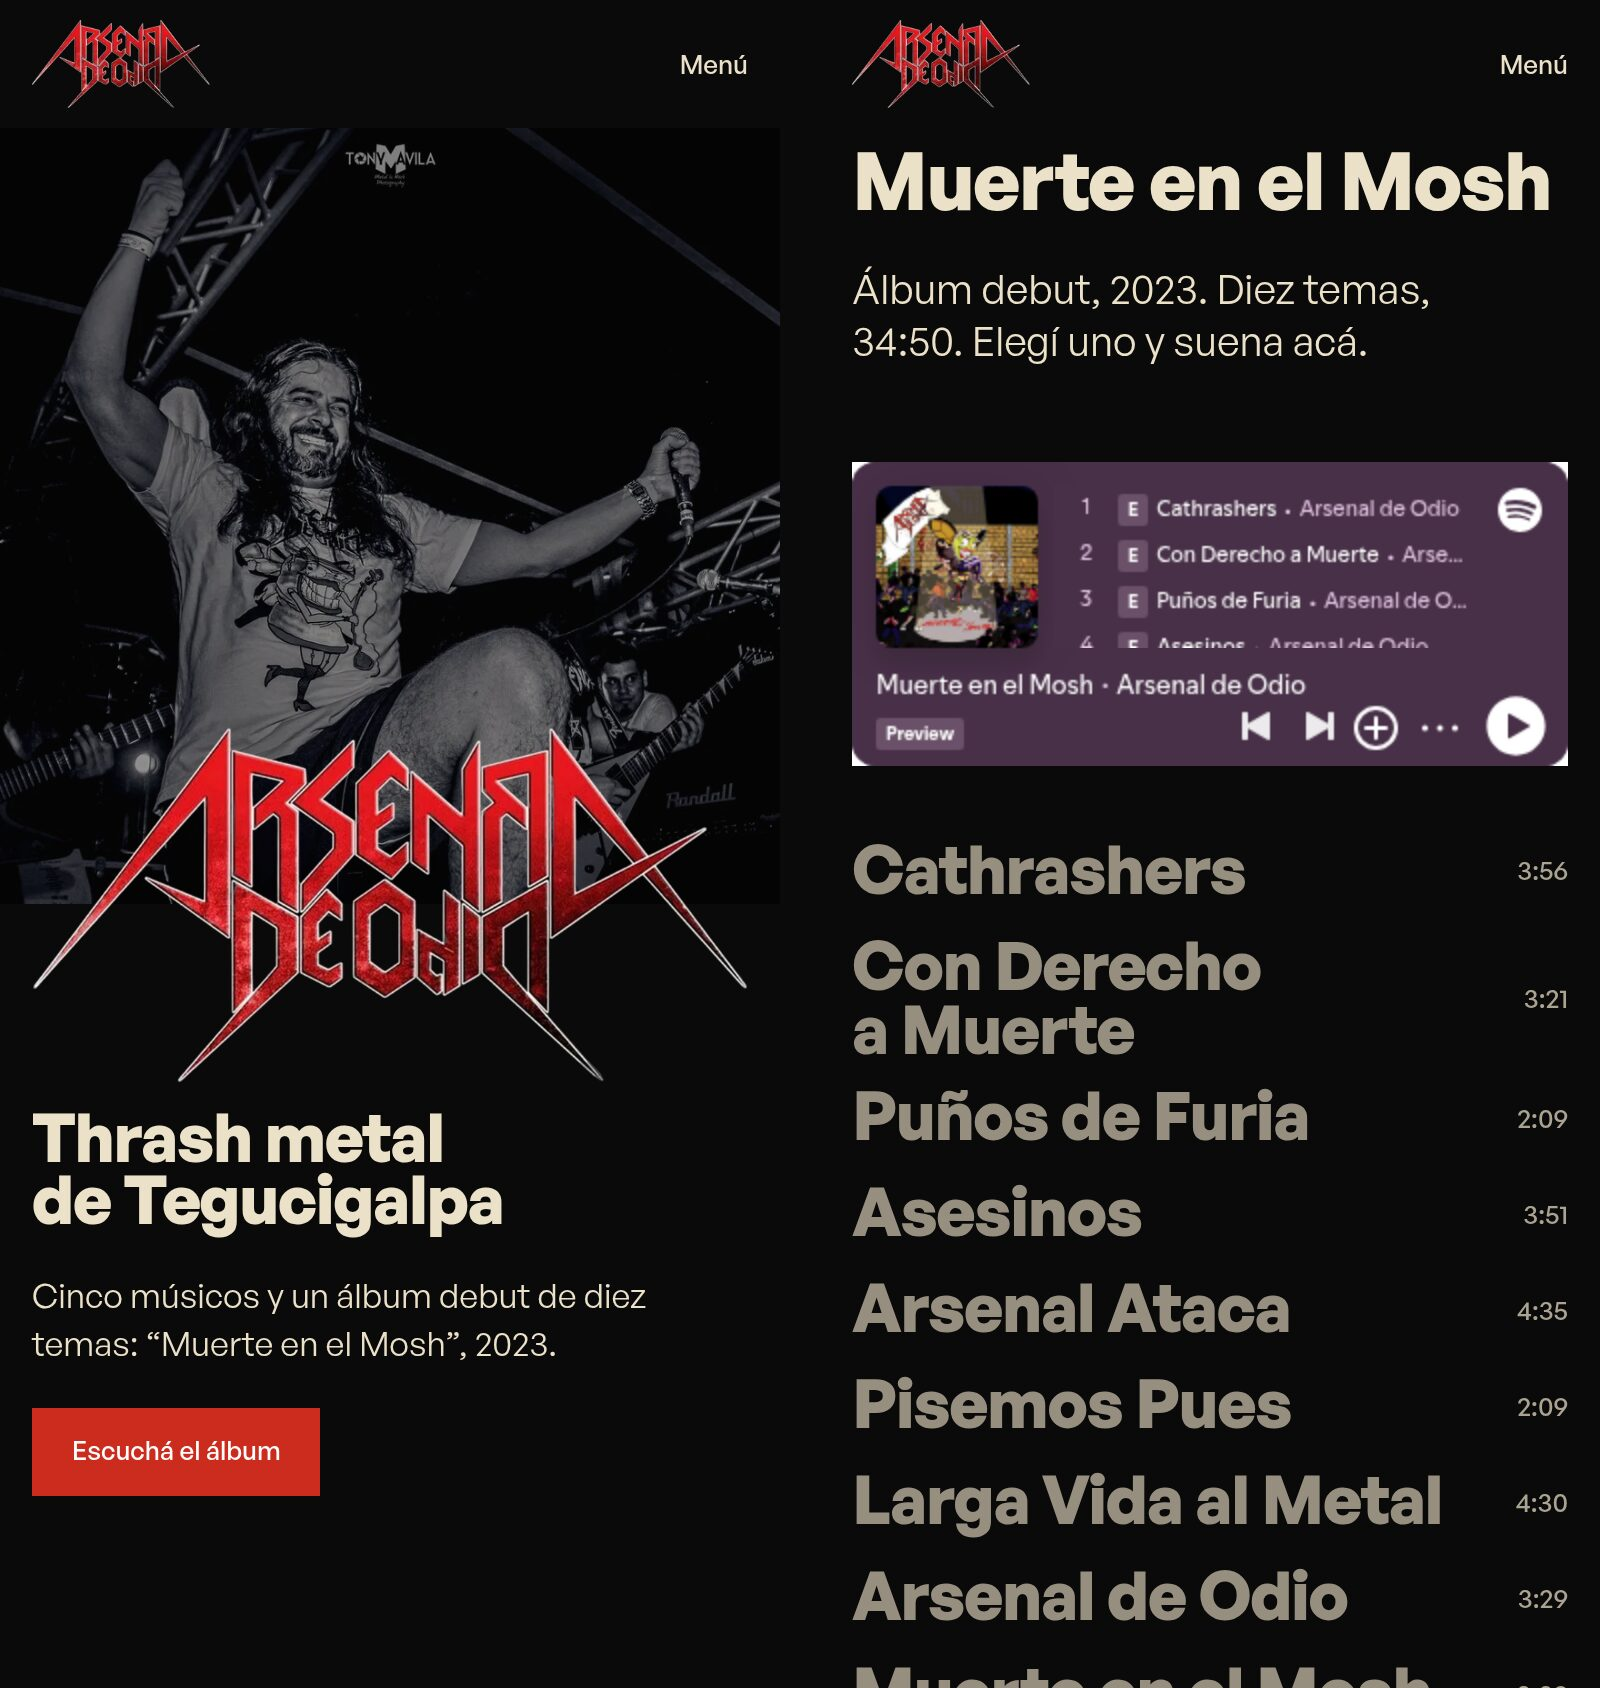
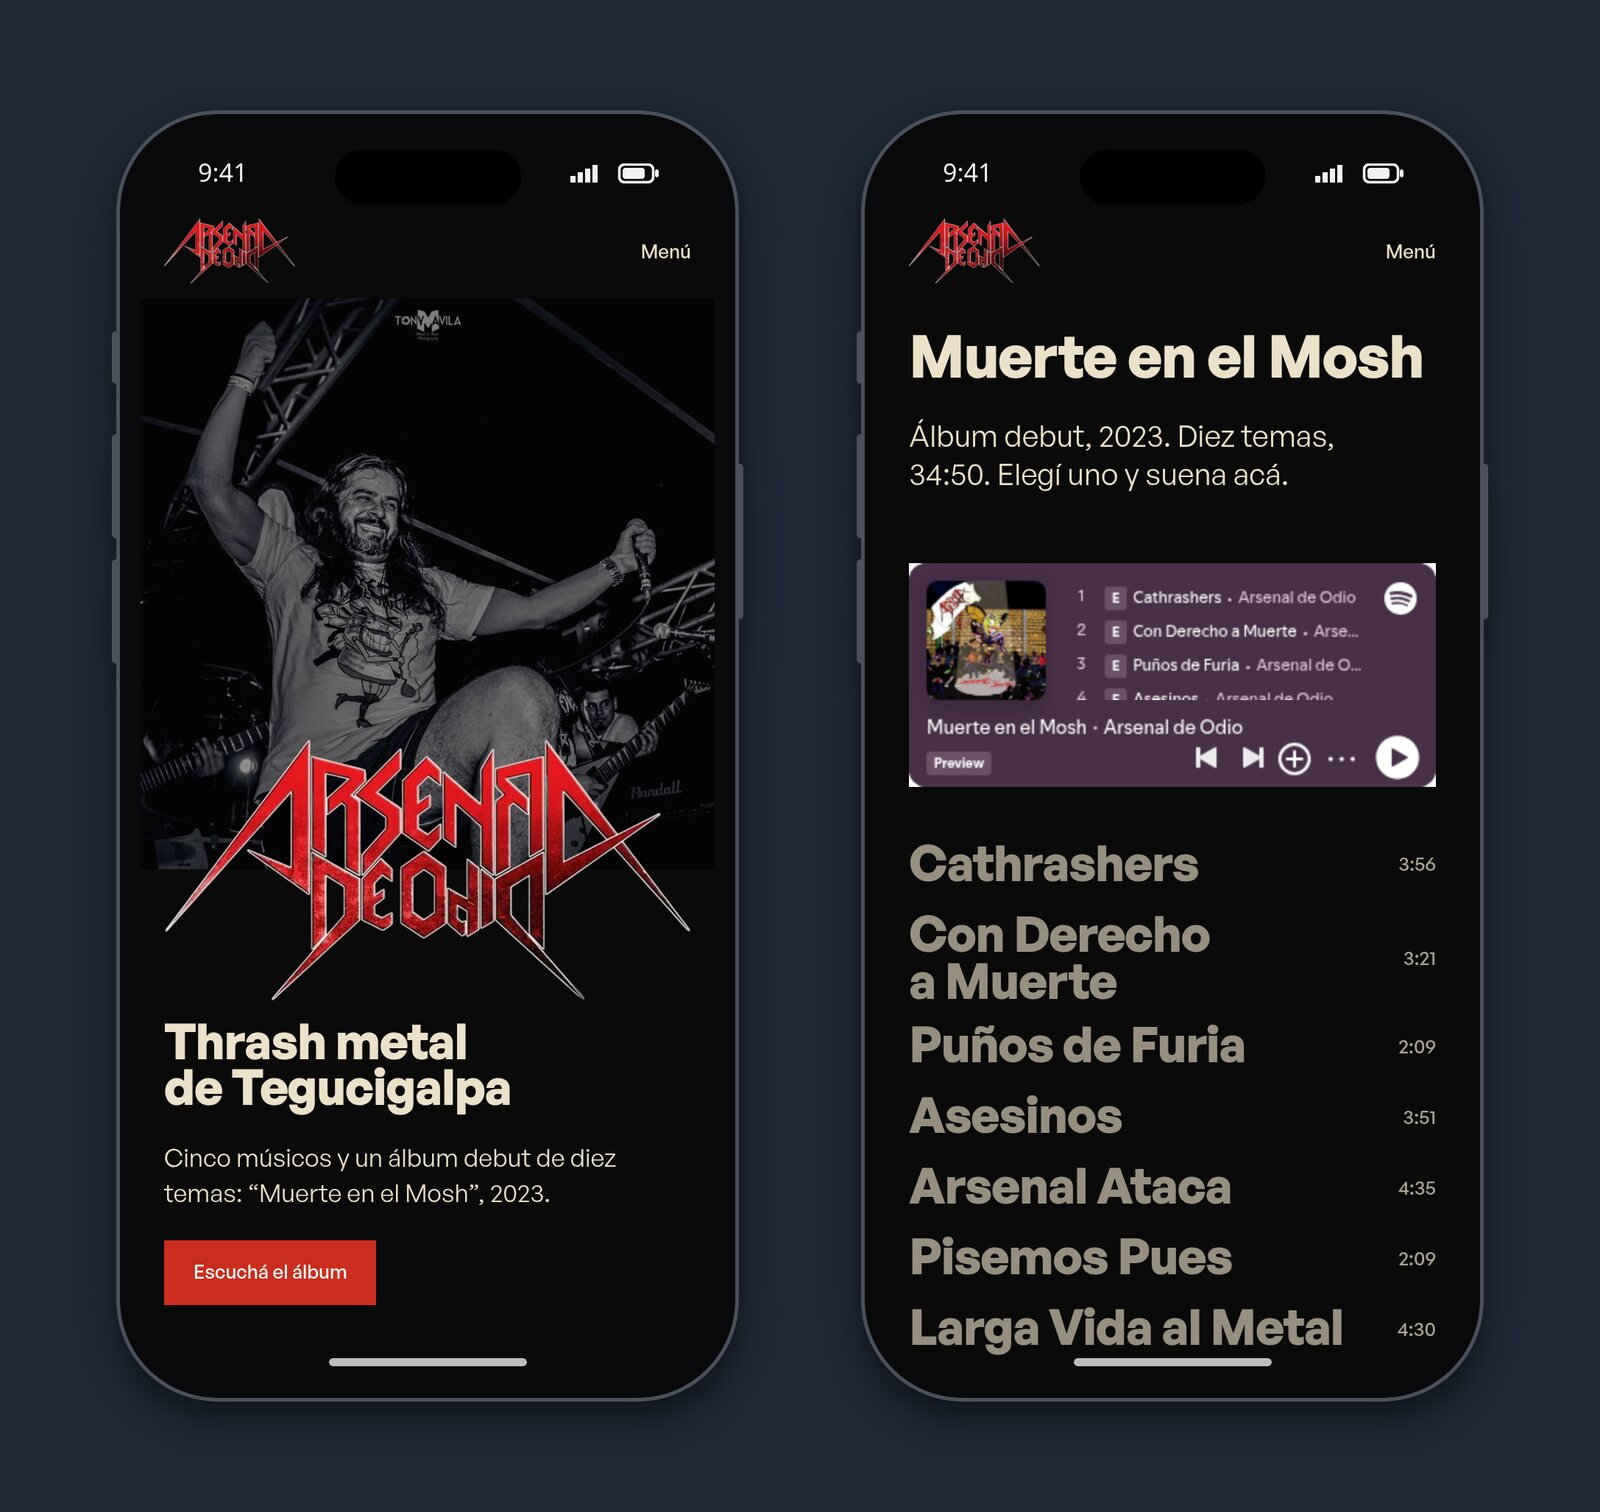
:lipstick: style(portfolio): show the arsenal phone shots inside phone frames
The two 390 px captures sat side by side in one box and read as a
single wide picture. Each one now sits in its own phone frame (bezel,
status bar, home indicator) on the portfolio's card colour, so it is
clear they are two phone screens.

The tracks screen shows the page 13 CSS px higher, so it ends in the gap
after a track title instead of cutting the next one in half. The alt
text now says there are two phones.

diff --git a/src/pages/arsenal-de-odio.md b/src/pages/arsenal-de-odio.md
@@ -45,7 +45,7 @@ Antes de rediseñar estudié los sitios oficiales de Slayer, Cannibal Corpse y o
 
 ### En el teléfono
 
-![El sitio en un teléfono de 390 px de ancho: a la izquierda la portada, con el logo sobre una foto en blanco y negro del cantante, y a la derecha la sección de canciones con el reproductor de Spotify](/project/arsenal-de-odio/movil.jpg)
+![El sitio en dos teléfonos de 390 px de ancho: en el de la izquierda, la portada, con el logo sobre una foto en blanco y negro del cantante; en el de la derecha, la sección de canciones con el reproductor de Spotify](/project/arsenal-de-odio/movil.jpg)
 
 ---
 
